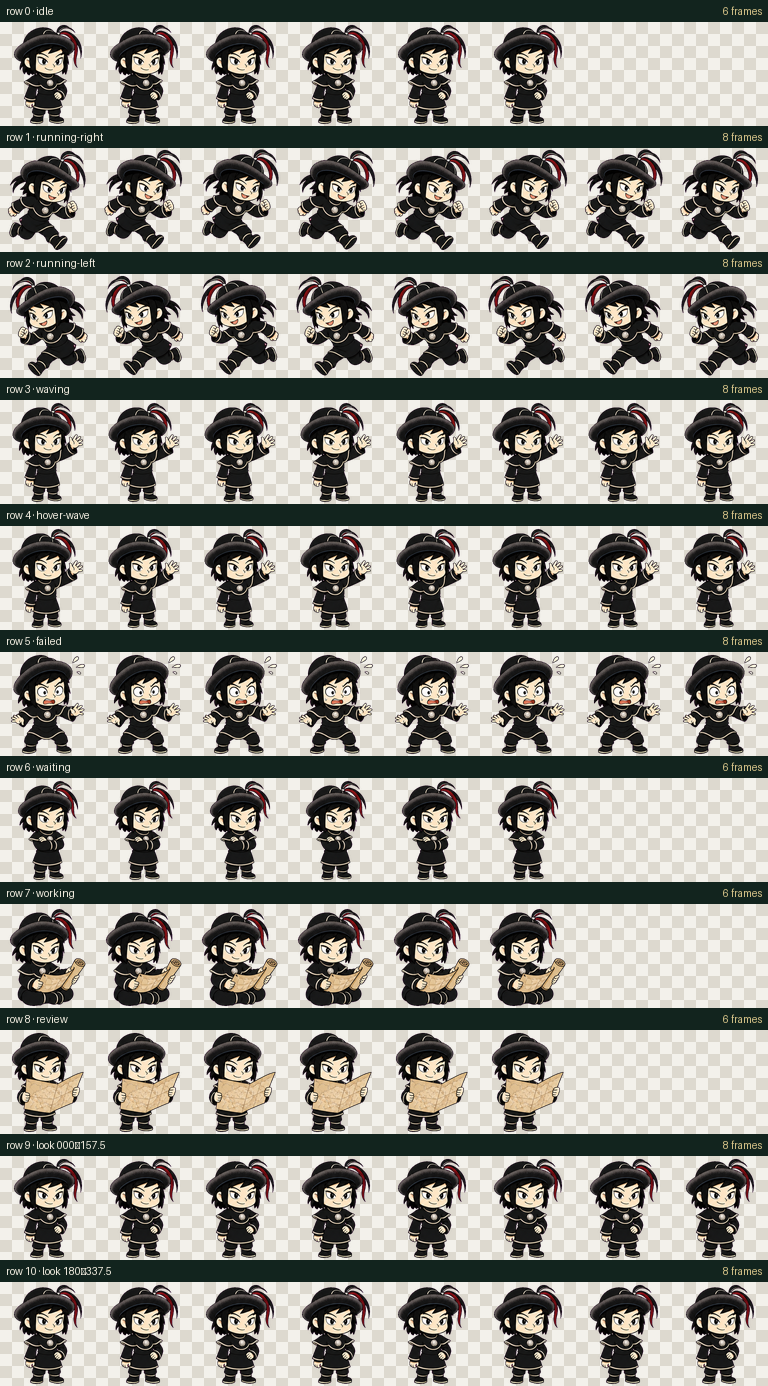
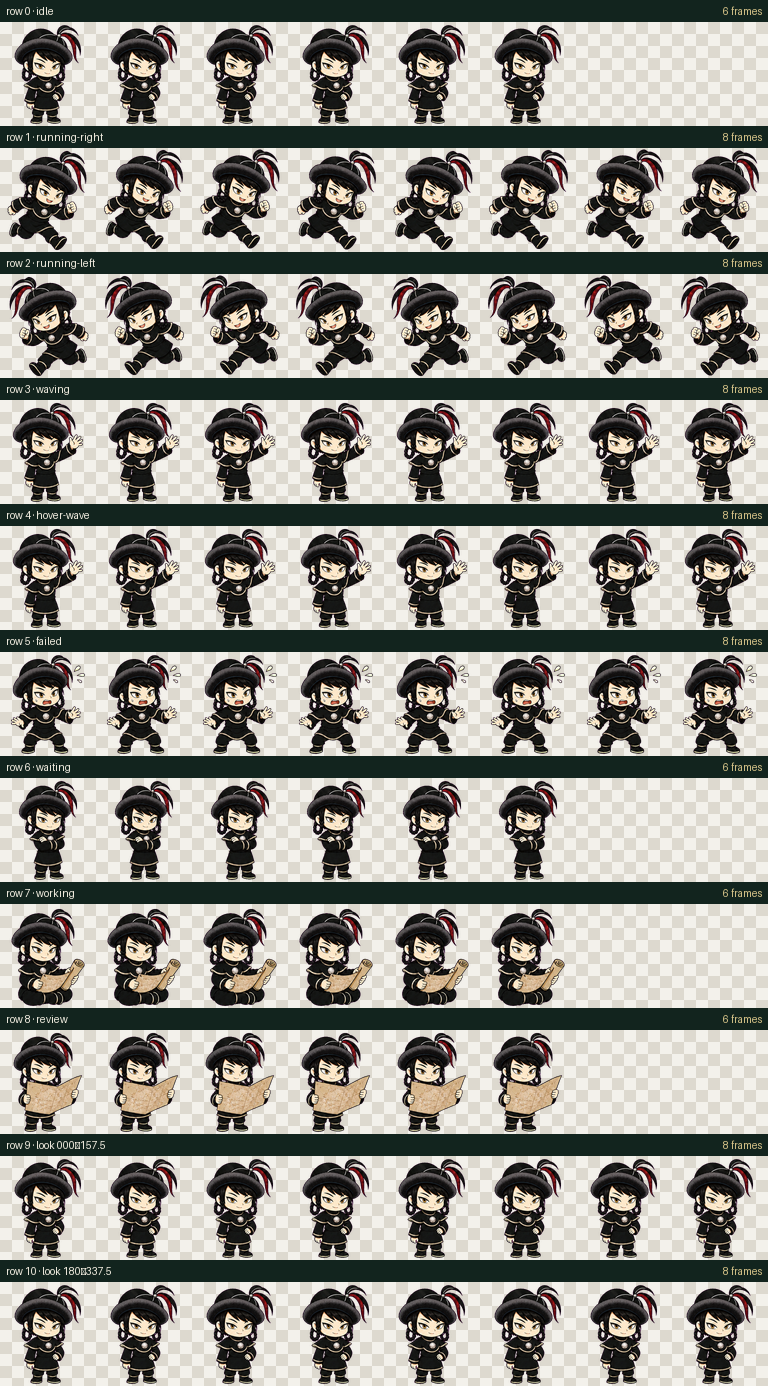
Refine Batu pet artwork from character references

diff --git a/scripts/build_assets.py b/scripts/build_assets.py
@@ -10,7 +10,7 @@ from PIL import Image, ImageChops, ImageDraw, ImageFilter, ImageFont, ImageOps
 
 
 ROOT = Path(__file__).resolve().parents[1]
-SOURCE = ROOT / "source" / "batu-pose-sheet-western-expedition-chroma.png"
+SOURCE = ROOT / "source" / "batu-pose-sheet-reference-refined-v5-chroma.png"
 ATLAS_PATH = ROOT / "package" / "spritesheet.webp"
 CONTACT_SHEET_PATH = ROOT / "assets" / "contact-sheet.png"
 LOOK_SHEET_PATH = ROOT / "assets" / "look-directions.png"

diff --git a/qa/asset-prompt.md b/qa/asset-prompt.md
@@ -31,3 +31,19 @@ Replace only the top-right cell of the pose sheet with a side-lying sleeping Bat
 Redress Batu in every pose using the supplied manga references: a deep-black high-neck military robe, broad rounded shoulder mantle with pale piping, circular command medallion, fitted black sleeves, black trousers and boots, and a broad black fur-brim hat with long black and dark-crimson plume ribbons. Remove the earlier segmented pale hat, cross-body sash and blue cuffs. Preserve all poses, expressions, maps, full-body sleeping silhouette, scale and grid placement.
 
 The built-in image tool successfully produced the 3×3 uniform sheet. Three attempts to produce a matching 4×2 animation sheet failed during the image service connection step. The package therefore uses pixel-stable western-uniform idle and wave frames so no old-costume pixels appear.
+
+## Bang direction correction v2
+
+Use the western-expedition pose sheet as the exact style target and change only the front fringe. Mirror the original side-swept bang direction to match the supplied manga portrait, retaining one clear diagonal sweep divided into three or four uneven pointed locks. Preserve matte flat-black hair with minimal shading. Keep the compact upturned eyes and sharp outer corners, but add no long lashes, mascara or eyeliner tails. Reject center-parted, vertical sawtooth, glossy or highly detailed hair treatments.
+
+## Looped-braid refinement v3
+
+Use the v2 western-expedition pose sheet as the exact edit target. In all nine poses, make the black pupils only slightly smaller while preserving eye shape, expression and gaze direction; keep closed eyes closed. Add exactly two traditional Mongolian-style braided loops beneath the main hair, one on each side, clearly reading as plaits formed into neat circles rather than loose hair tufts or generic side buns. Make the front bangs sweep diagonally toward Batu's right. Preserve every pose, costume detail, prop, facial expression, scale, grid position, line weight, shading, palette and the solid magenta chroma background.
+
+## Lower braid and complete plume refinement v4
+
+Use the v3 sheet as the exact edit target. Move both braided loops lower beneath the hair and reshape them from high circular rings into slim, vertically elongated oval or U-shaped braided loops whose lower ends reach the jaw-to-shoulder line. Narrow only the horizontal width of every open-eye pupil, preserving eye shapes, expressions and gaze. Ensure all nine hats carry the same complete rear black-and-dark-crimson plume ribbons, including the bottom-right map-reading pose. Preserve the right-swept bangs and every other pose, costume detail, prop, facial expression, scale, grid position, line weight, shading, palette and the solid magenta background.
+
+## Character-reference refinement v5
+
+Use the v4 sheet as the exact edit target and three supplied character images only as design references. Refine Batu's youthful sharp face, narrow upturned amber-gold eyes with very slim vertical pupils, matte black chin-length hair, coherent right-swept fringe, low elongated U/teardrop-shaped braided loops, broad domed black hat with thick fur brim, complete rear black-and-deep-crimson plume ribbons, high-neck mantle and circular medallion. Do not copy the references' scenes, red backgrounds, flames, window bars, gestures, grayscale treatment or panel framing. Preserve the exact nine poses, chibi proportions, props, full-body silhouettes, grid positions, color sprite rendering and magenta chroma background.

diff --git a/source/README.md b/source/README.md
@@ -1,10 +1,14 @@
 # Source artwork
 
-- `batu-pose-sheet-western-expedition-chroma.png`：当前使用的西征军装 3×3 九姿态母版。
+- `batu-pose-sheet-reference-refined-v5-chroma.png`：当前使用的西征军装 3×3 九姿态母版；依据三张角色参考重新校准脸型、琥珀色窄瞳、右斜刘海、低位窄长辫圈、厚毛帽檐与完整黑红长缨。
+- `batu-pose-sheet-western-expedition-lower-braids-complete-plumes-v4-chroma.png`：上一版低位辫圈与完整帽缨母版，保留用于对照。
+- `batu-pose-sheet-western-expedition-looped-braids-v3-chroma.png`：上一版圆形辫圈母版，保留用于对照。
+- `batu-pose-sheet-western-expedition-correct-bangs-v2-chroma.png`：上一版刘海方向修正版，保留用于对照。
+- `batu-pose-sheet-western-expedition-chroma.png`：早期西征军装版本，刘海方向未修正，保留用于对照。
 - `batu-pose-sheet-chroma.png`：早期常服版本母版，保留用于对照。
 - `batu-animation-sheet-chroma.png`：早期常服挥手与眨眼母版，当前构建不读取。
 - 图集构建入口：`python scripts/build_assets.py`
 
 构建脚本会自动移除洋红色背景、抑制边缘色溢，并生成透明 RGBA WebP 图集。
 
-当前母版保留拔都的黑色齐颌短发、上挑眉和自信神态，并依据用户提供的漫画参考换成黑色高领披肩军袍、胸前圆徽与黑红长缨军帽。为避免混入旧服装，待机和挥手暂用西征军装母版的稳定静态帧；跑动等其他状态正常使用对应姿态。悬停状态复用落地挥手，不会跳起。
+当前母版依据用户提供的三张角色图进一步校准拔都的尖俏少年脸型、上挑琥珀色眼睛、细窄竖瞳、黑色齐颌短发和自信神态。刘海统一向右斜扫；头发下方左右各有一圈下垂至下颌至肩线附近的窄长蒙古族麻花辫；厚实黑色毛边军帽在所有姿势中均保留同款黑红长缨。服装继续采用黑色高领披肩军袍、浅色滚边与胸前圆徽，九个动作、道具、配色与构图保持不变。为避免混入旧服装，待机和挥手暂用西征军装母版的稳定静态帧；跑动等其他状态正常使用对应姿态。悬停状态复用落地挥手，不会跳起。
